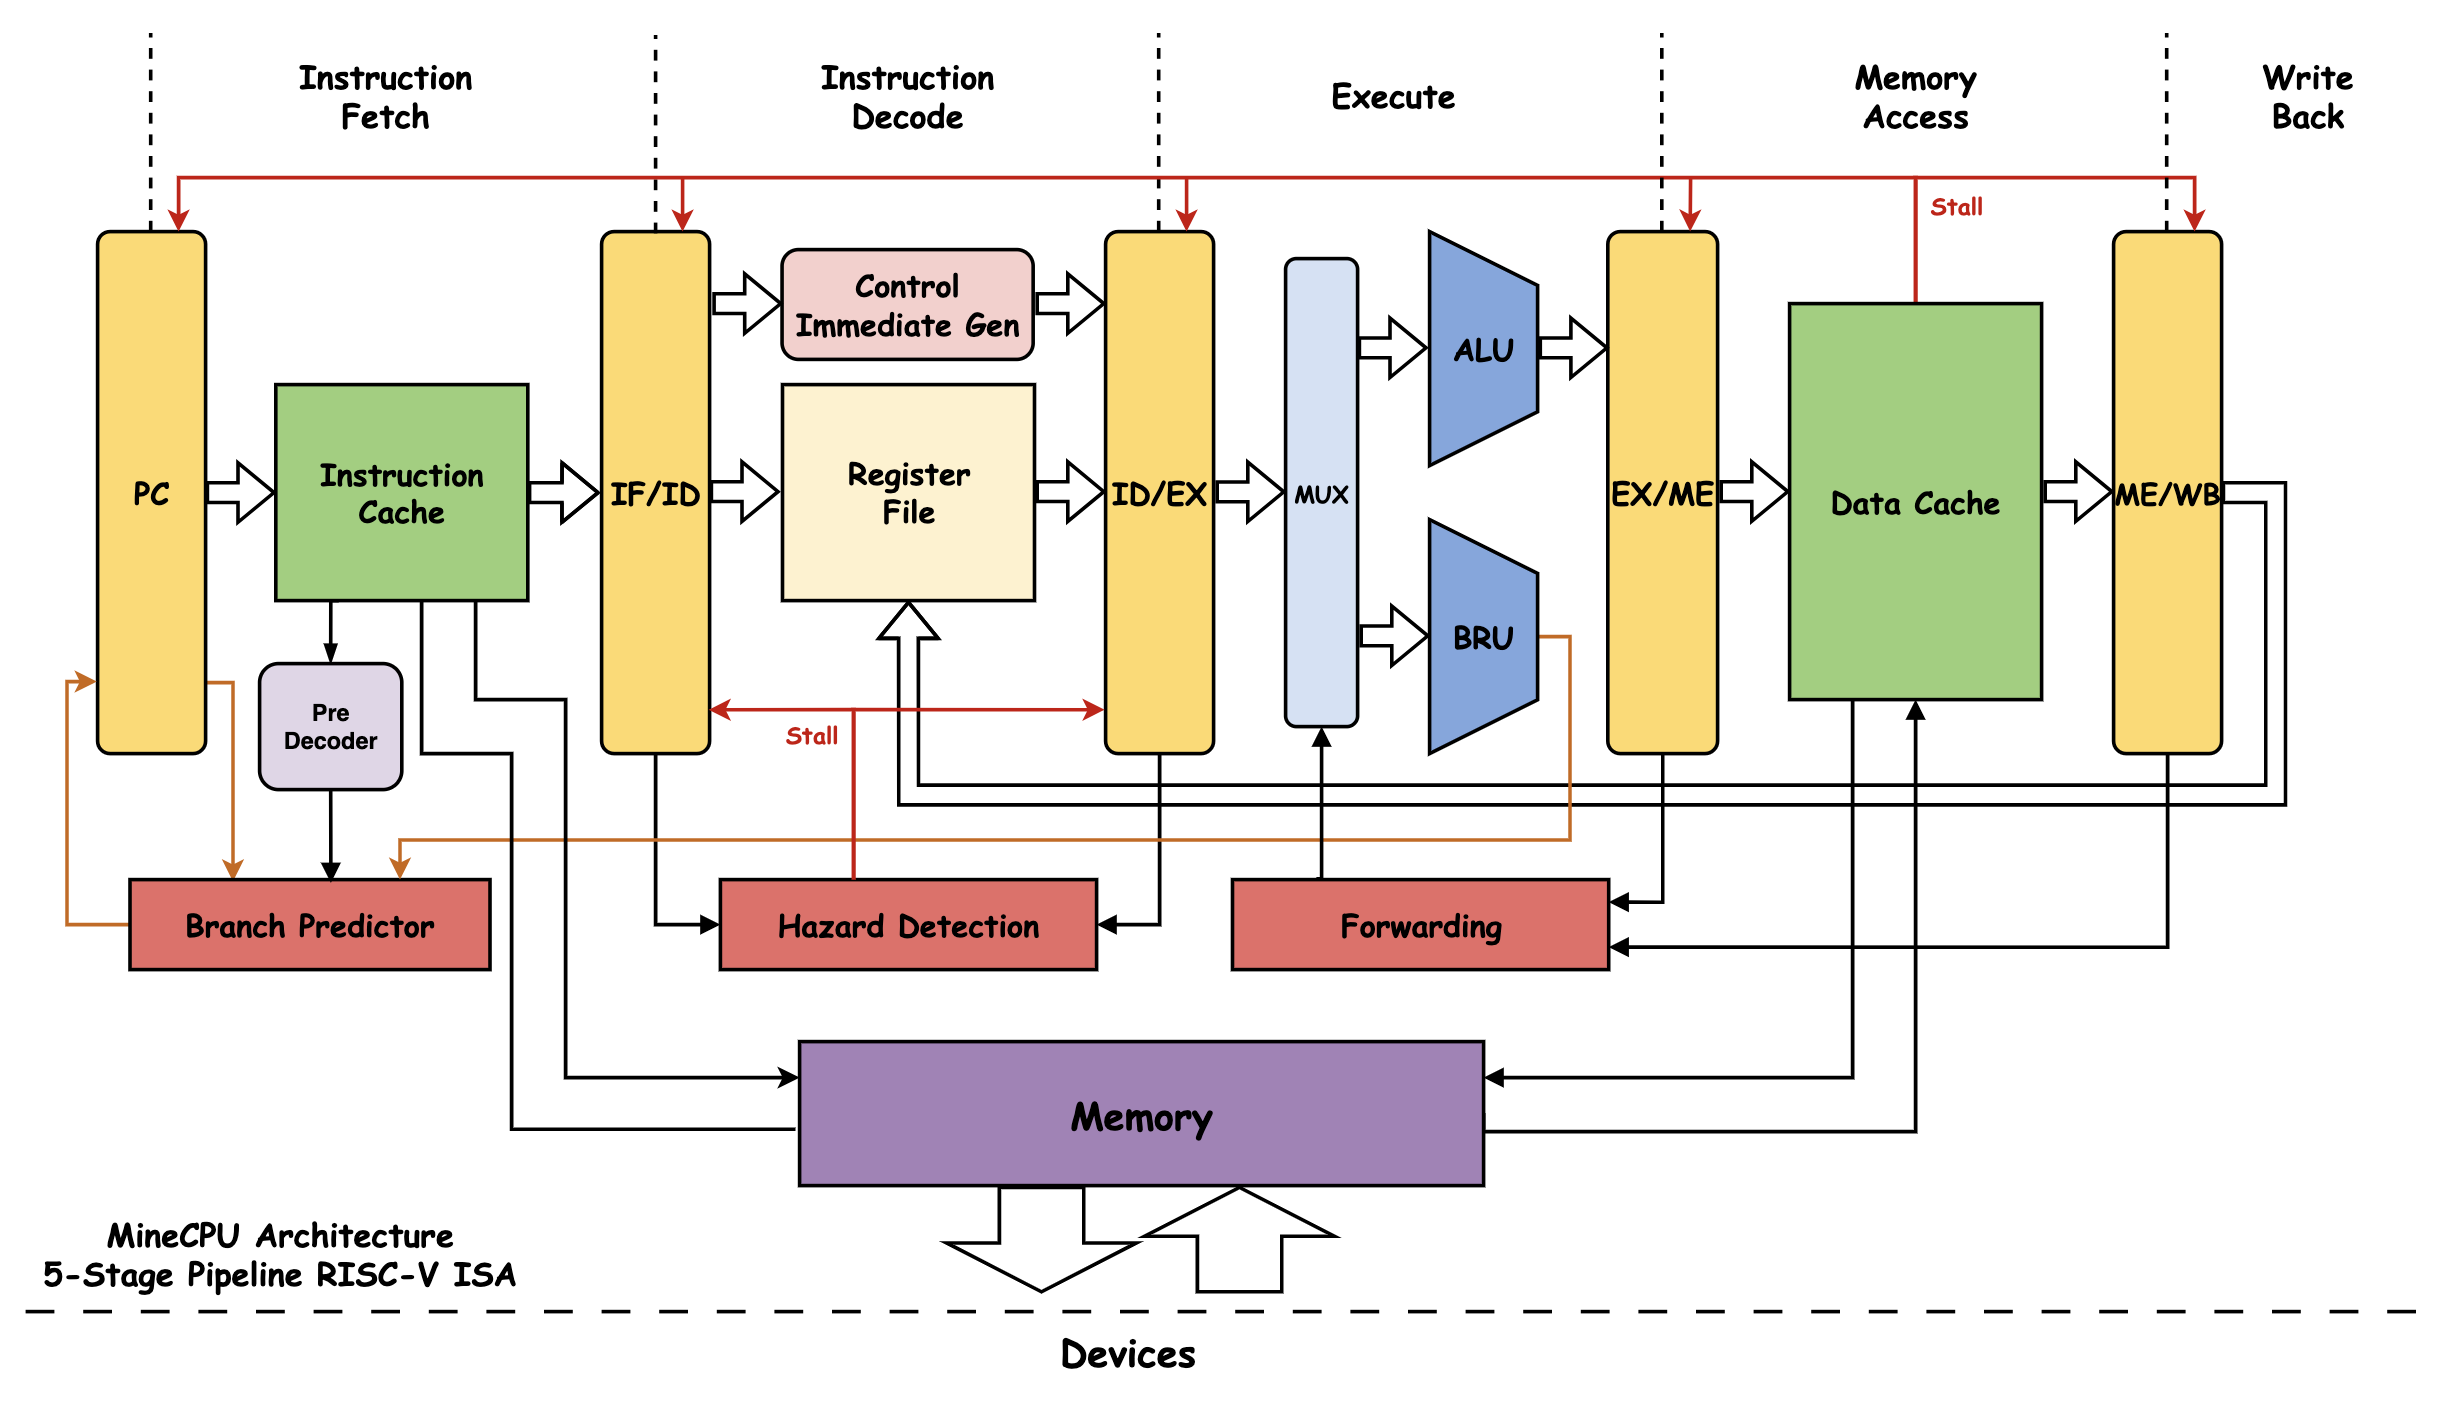
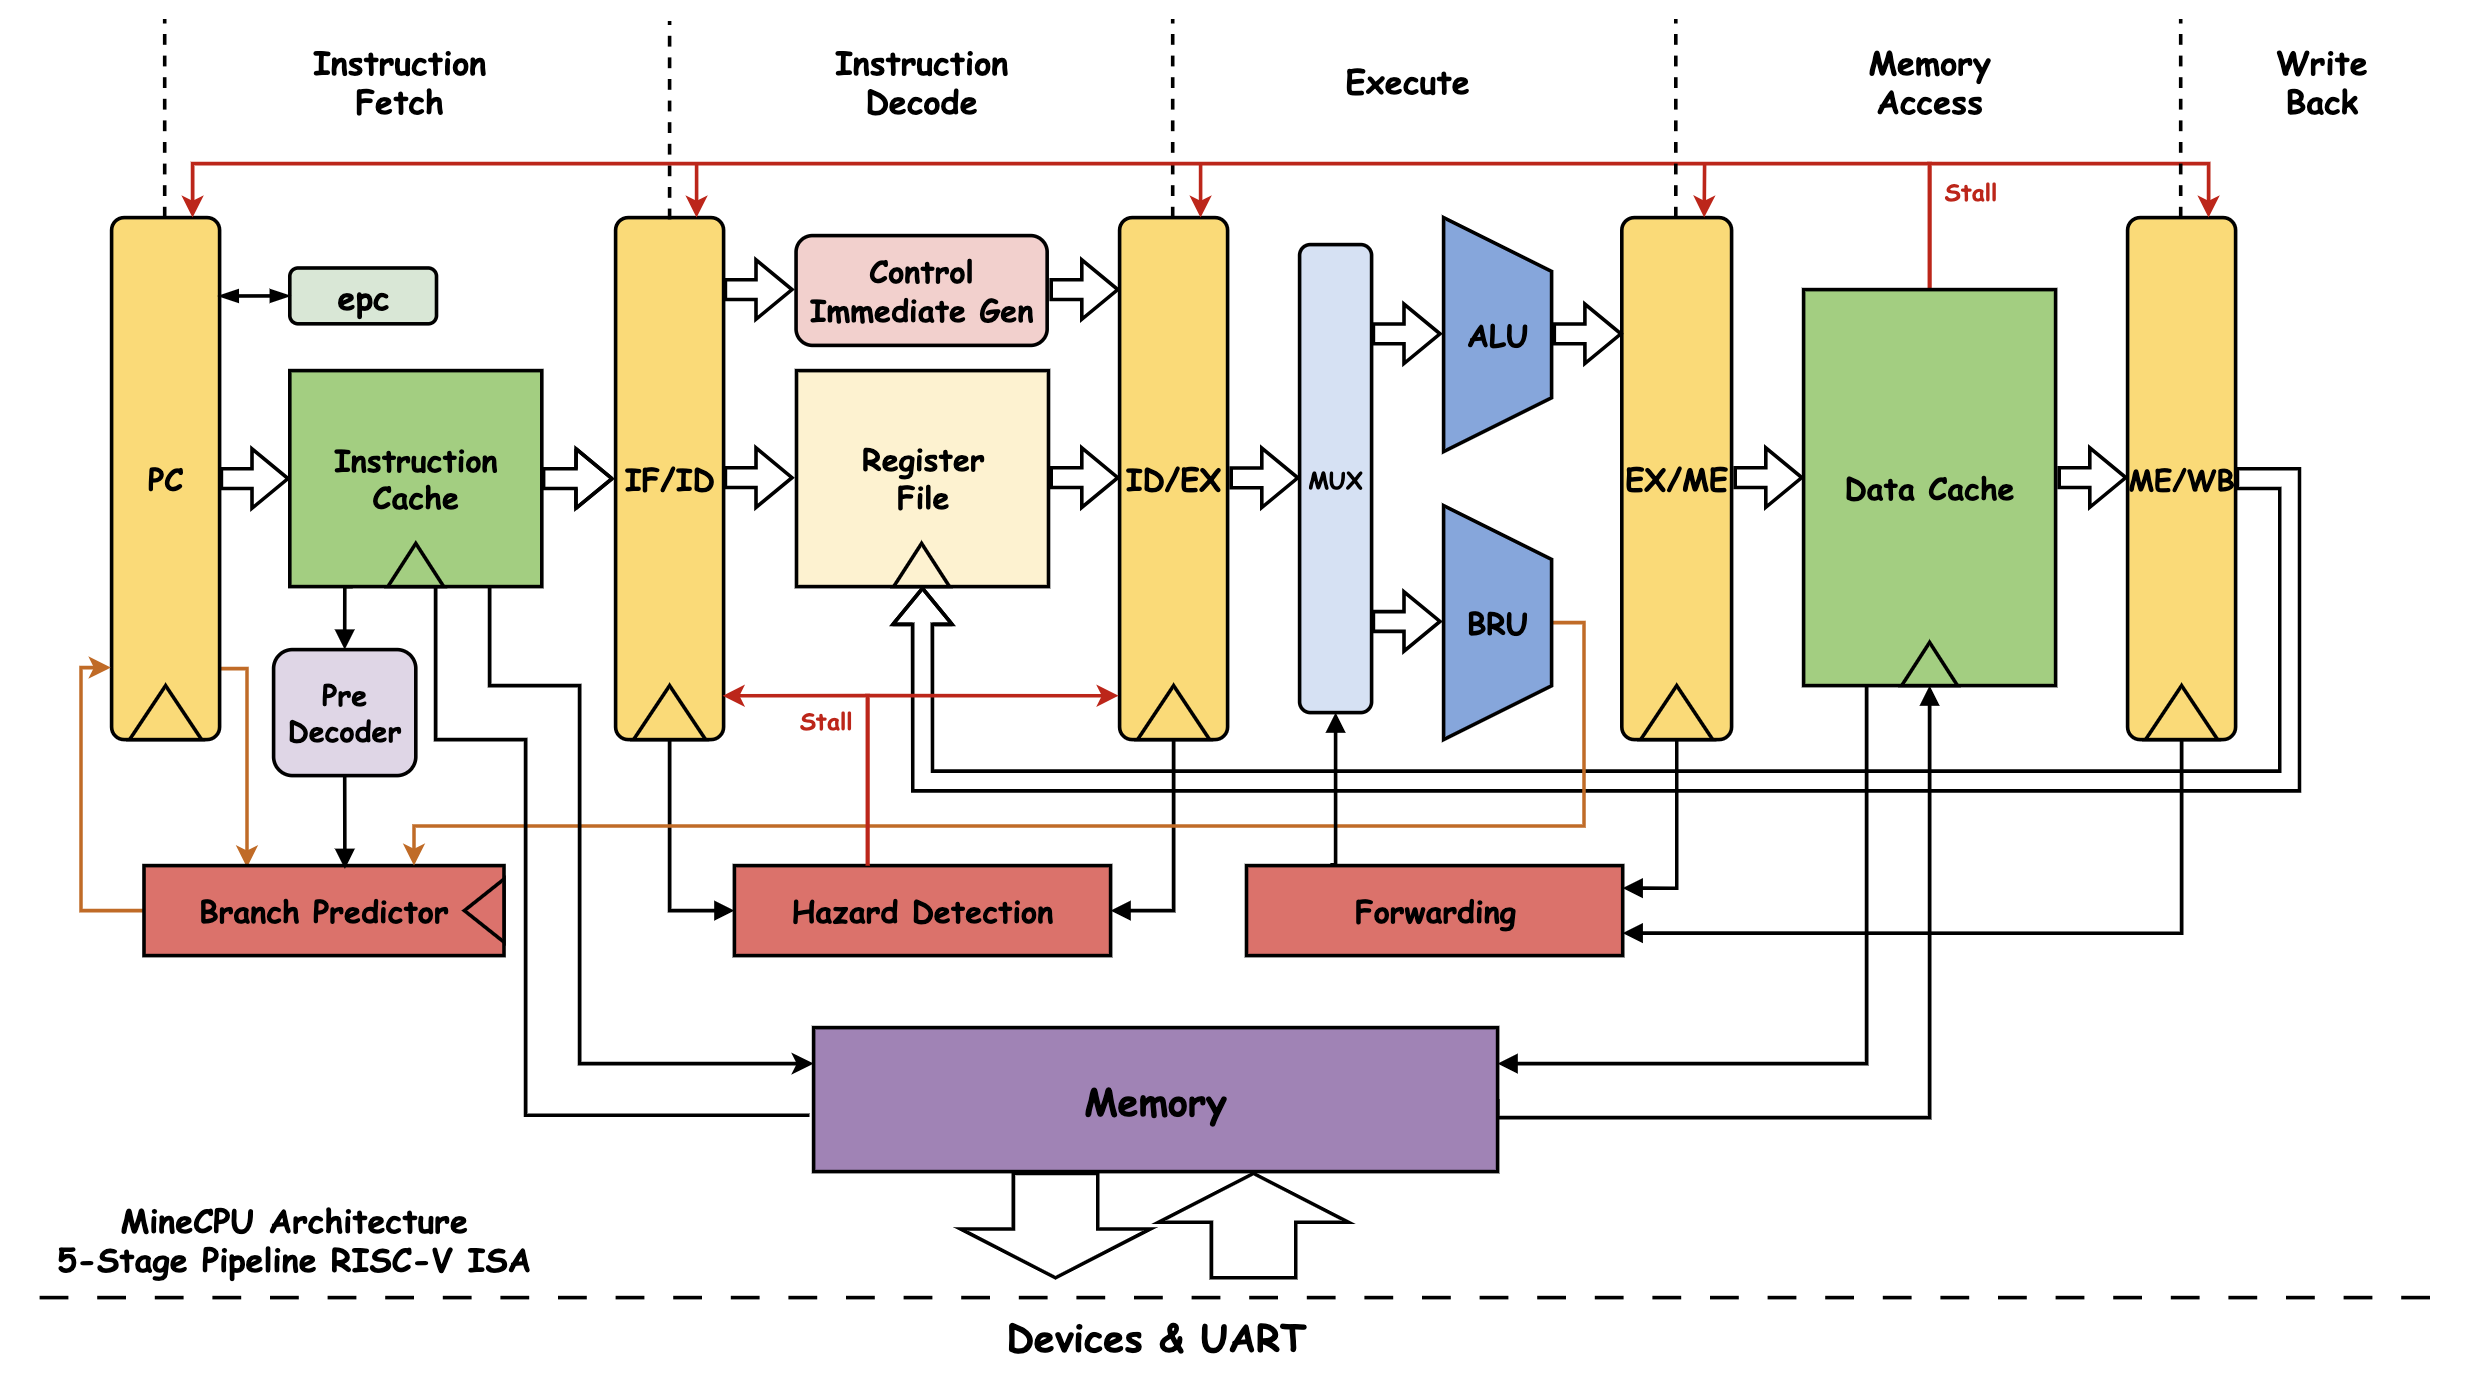
doc: fix architecture diagram and add report skeleton

diff --git a/docs/Report.md b/docs/Report.md
@@ -1,0 +1,42 @@
+# CS202课程项目CPU报告
+
+本报告为 2024 年春季南方科技大学计算机系课程 CS202 计算机组成原理的课程项目报告
+
+## 团队分工
+
+| 学号     | 姓名    | 分工                 | 贡献比 |
+| -------- | ------ | ------------------- | ------ |
+| 12211655 | 于斯瑶  | 测试、IO设备、报告撰写 | 33.33% |
+| 12110120 | 赵钊   | 架构设计、开发、测试    | 33.33% |
+| 12212231 | 陈贲   | 核心开发、测试         | 33.33% |
+
+
+## 计划日程安排和实施情况
+
+| 时间          | 任务                                          |
+| ------------- | -------------------------------------------- |
+| 2024-4-29     |  Project 发布                                |
+|     |     |
+
+**以上计划均顺利按时完成**
+
+### 版本修改记录 (Git Commit Log)
+
+[Github Link](https://github.com/wLUOw/MineCPU)
+
+
+## CPU架构设计说明
+
+
+## 使用说明
+
+
+## 测试说明
+
+
+## 问题及总结
+
+
+## Bonus 相关说明
+
+
